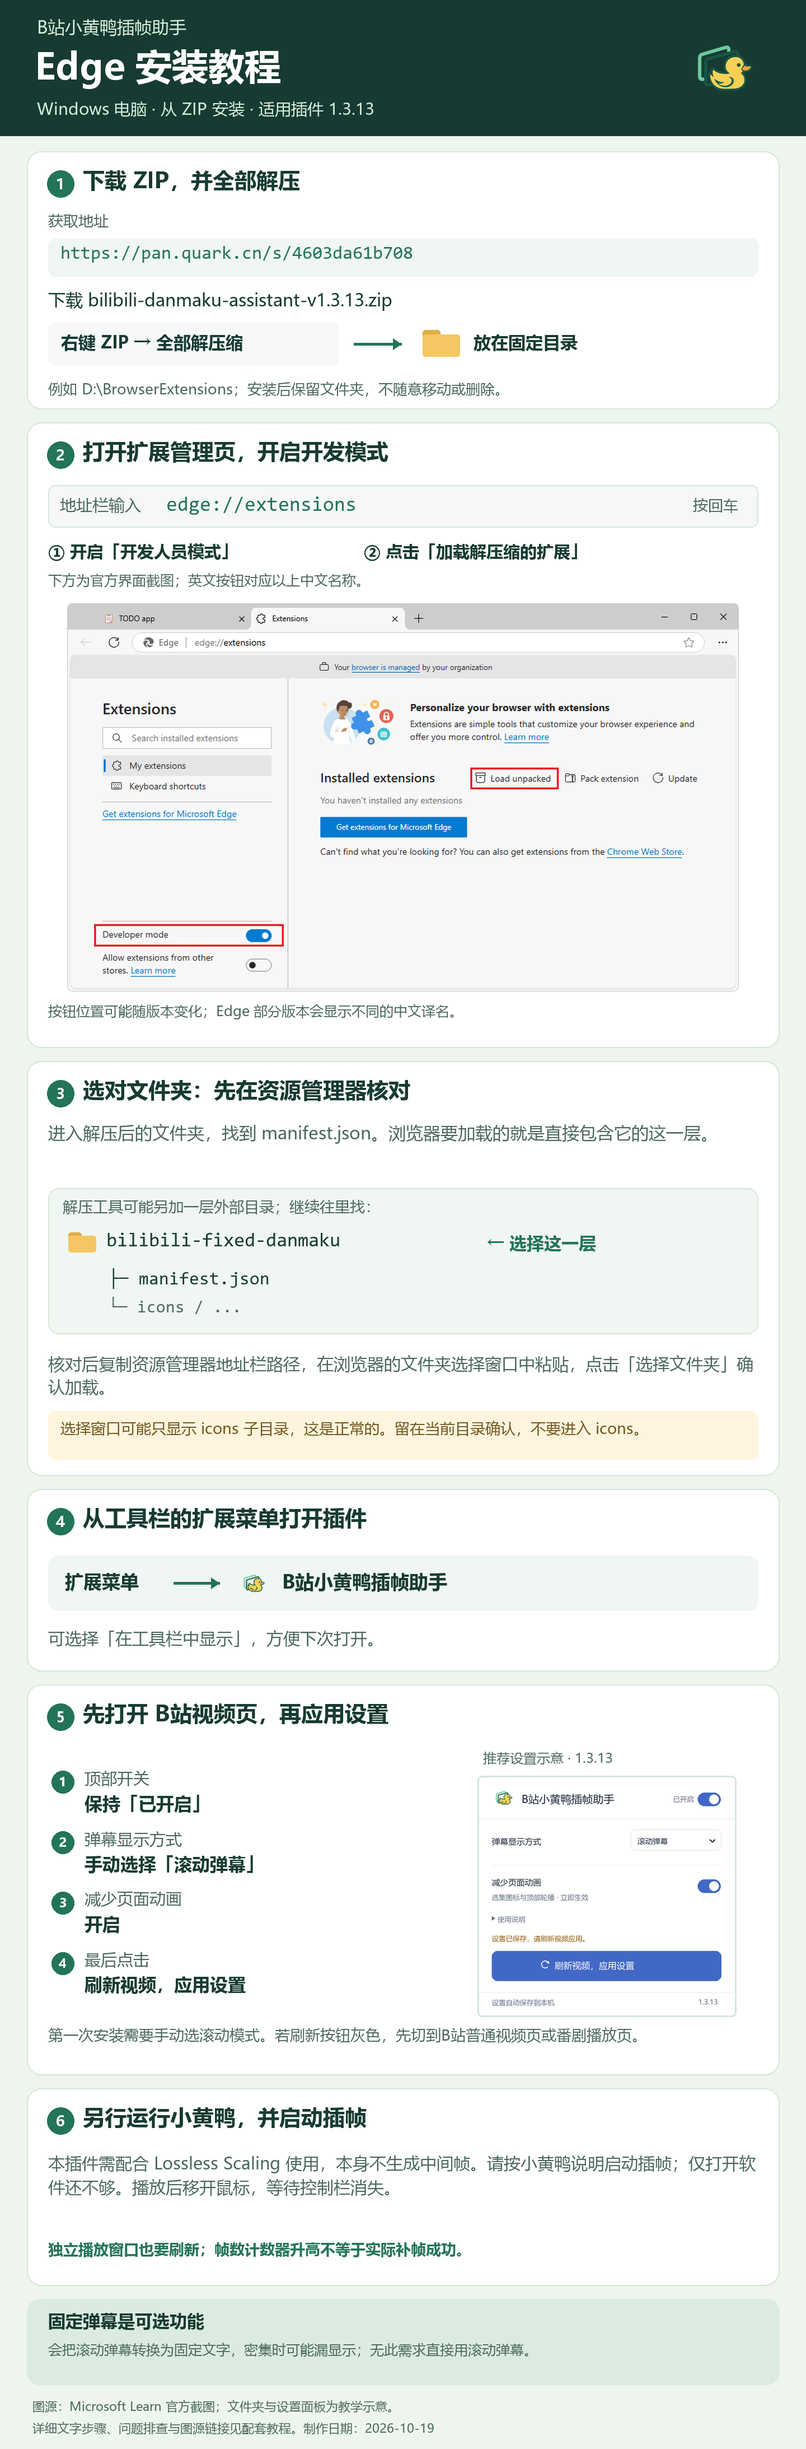
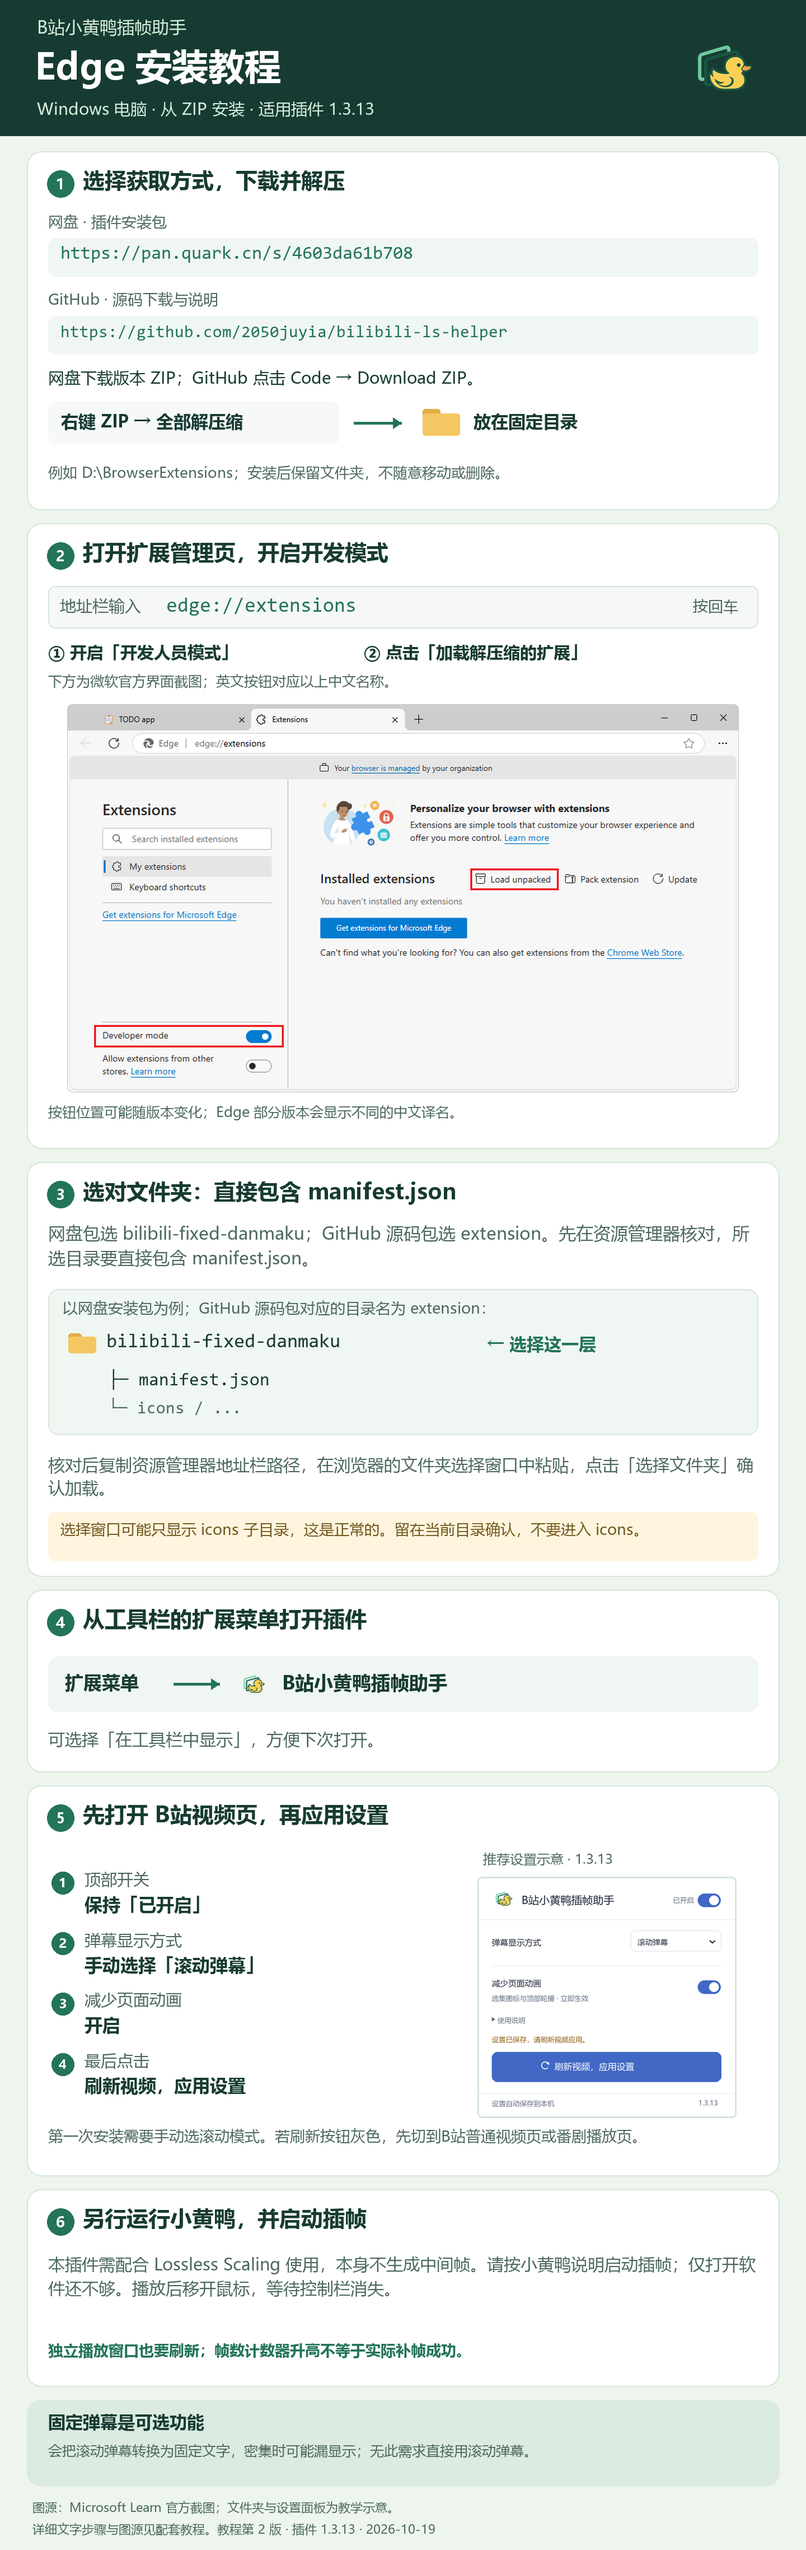
Update installation guides with user Chrome screenshot and GitHub download steps

diff --git a/docs/install.html b/docs/install.html
@@ -7,9 +7,10 @@ button[aria-selected=true]{background:#23745a;color:white;border-color:#23745a}.
 footer{max-width:1040px;margin:24px auto;padding:0 24px 48px;color:#4d695f}a{color:#23745a}button:focus-visible,a:focus-visible{outline:3px solid #d8ae43;outline-offset:4px}
 </style><header><h1>从安装包安装 · Edge / Chrome</h1><p>Windows 电脑适用。先选浏览器，再按图操作；两份长图均可保存。插件需配合 Lossless Scaling 使用。</p>
 <nav role="tablist" aria-label="选择浏览器"><button role="tab" aria-selected="true" data-browser="edge">Microsoft Edge</button><button role="tab" aria-selected="false" data-browser="chrome">Google Chrome</button></nav>
-<div class="downloads"><a class="action" id="png-download" href="assets/install-edge.png" download>保存 Edge 安装长图</a><a class="action" href="https://pan.quark.cn/s/4603da61b708" target="_blank" rel="noreferrer">获取插件安装包</a></div></header>
+<div class="downloads"><a class="action" id="png-download" href="assets/install-edge.png" download>保存 Edge 安装长图</a><a class="action" href="https://pan.quark.cn/s/4603da61b708" target="_blank" rel="noreferrer">网盘 · 插件安装包</a><a class="action" href="https://github.com/2050juyia/bilibili-ls-helper" target="_blank" rel="noreferrer">GitHub · 源码与说明</a></div></header>
+<p style="max-width:992px;margin:0 auto 18px;padding:0 24px">GitHub 下载：Code → Download ZIP；解压后加载 extension 文件夹。网盘安装包则加载 bilibili-fixed-danmaku。</p>
 <main><img id="guide" src="assets/install-edge.png" alt="Edge 从ZIP安装B站小黄鸭插帧助手：下载、解压、加载文件夹与推荐设置"></main>
-<footer><p>浏览器界面采用官方文档截图；文件夹和推荐设置面板为教学示意，并非本轮实机安装截图。按钮位置、译名可能随浏览器版本变化。</p>
+<footer><p>Edge界面采用微软官方截图；Chrome界面采用用户提供的1.3.13实际截图。文件夹和推荐设置面板为教学示意。按钮位置、译名可能随浏览器版本变化。</p>
 <p>完整文字教程：<a href="install-edge.zh-CN.md">Edge</a> · <a href="install-chrome.zh-CN.md">Chrome</a> · <a href="assets/SOURCES.md">图源与复现说明</a></p>
 <p>找不到 manifest？先在文件资源管理器核对目录；浏览器的文件夹选择窗口可能只显示 icons，这是正常的。加载后应保留解压目录。</p></footer>
 <script>for(const b of document.querySelectorAll('[data-browser]'))b.addEventListener('click',()=>{let n=b.dataset.browser,label=n==='edge'?'Edge':'Chrome';for(const x of document.querySelectorAll('[data-browser]'))x.setAttribute('aria-selected',String(x===b));let img=document.getElementById('guide');img.src='assets/install-'+n+'.png';img.alt=label+' 从ZIP安装教程';let a=document.getElementById('png-download');a.href=img.src;a.textContent='保存 '+label+' 安装长图';});</script></html>

diff --git a/scripts/render-install-guides.py b/scripts/render-install-guides.py
@@ -2,7 +2,7 @@
 
 Run: python scripts/render-install-guides.py
 Optional font overrides: --font, --bold-font, --mono-font (TTF/TTC paths).
-Official browser references are kept verbatim under docs/assets/reference/.
+Browser screenshots are kept verbatim under docs/assets/reference/.
 Folder and popup illustrations are labeled diagrams, not captured browser UI.
 """
 import argparse
@@ -26,6 +26,7 @@ LINE = "#d6e6da"
 QUARK = "https://pan.quark.cn/s/4603da61b708"
 REPO = "https://github.com/2050juyia/bilibili-ls-helper"
 VERSION = "1.3.13"
+EDITION = 2
 
 parser = argparse.ArgumentParser(description=__doc__)
 parser.add_argument("--font", default="C:/Windows/Fonts/msyh.ttc")
@@ -143,23 +144,24 @@ def render(browser):
     im.paste(icon, (W - 217, 53), icon)
     y = 270
 
-    cy = card(d, y, 460, 1, "下载 ZIP，并全部解压")
-    text(d, (86, cy), "获取地址", 27, SUB)
+    cy = card(d, y, 640, 1, "选择获取方式，下载并解压")
+    text(d, (86, cy), "网盘 · 插件安装包", 27, SUB)
     d.rounded_rectangle((86, cy + 43, W - 86, cy + 111), radius=13, fill=SOFT)
     text(d, (108, cy + 57), QUARK, 33, ACCENT, mono=True)
-    text(d, (86, cy + 139), "下载 bilibili-danmaku-assistant-v1.3.13.zip", 31)
-    d.rounded_rectangle((86, cy + 193, 605, cy + 270), radius=13, fill="#f7f8fa")
-    text(d, (109, cy + 215), "右键 ZIP → 全部解压缩", 31, bold=True)
-    arrow(d, 632, cy + 232, 717)
-    folder(d, 755, cy + 207)
-    text(d, (846, cy + 215), "放在固定目录", 31, bold=True)
-    text(d, (86, cy + 299), "例如 D:\\BrowserExtensions；安装后保留文件夹，不随意移动或删除。", 26, SUB)
-    y += 484
+    text(d, (86, cy + 139), "GitHub · 源码下载与说明", 27, SUB)
+    d.rounded_rectangle((86, cy + 182, W - 86, cy + 250), radius=13, fill=SOFT)
+    text(d, (108, cy + 199), REPO, 30, ACCENT, mono=True)
+    text(d, (86, cy + 278), "网盘下载版本 ZIP；GitHub 点击 Code → Download ZIP。", 29)
+    d.rounded_rectangle((86, cy + 334, 605, cy + 411), radius=13, fill="#f7f8fa")
+    text(d, (109, cy + 356), "右键 ZIP → 全部解压缩", 31, bold=True)
+    arrow(d, 632, cy + 373, 717)
+    folder(d, 755, cy + 348)
+    text(d, (846, cy + 356), "放在固定目录", 31, bold=True)
+    text(d, (86, cy + 448), "例如 D:\\BrowserExtensions；安装后保留文件夹，不随意移动或删除。", 26, SUB)
+    y += 664
 
-    ref = Image.open(ASSETS / "reference" / (browser + "-official.png")).convert("RGB")
-    if not is_edge:
-        # Crop out the official Hello Extensions example card, retaining real controls.
-        ref = ref.crop((0, 0, ref.width, 219))
+    reference_name = "edge-official.png" if is_edge else "chrome-user-1.3.13.png"
+    ref = Image.open(ASSETS / "reference" / reference_name).convert("RGB")
     refw = 1200
     refh = round(ref.height * refw / ref.width)
     h = 350 + refh + 73
@@ -170,16 +172,17 @@ def render(browser):
     text(d, (W - 202, cy + 23), "按回车", 27, SUB)
     text(d, (86, cy + 104), "① 开启「" + dev + "」", 30, bold=True)
     text(d, (650, cy + 104), "② 点击「" + load + "」", 30, bold=True)
-    text(d, (86, cy + 157), "下方为官方界面截图；英文按钮对应以上中文名称。", 25, SUB)
+    text(d, (86, cy + 157), "下方为微软官方界面截图；英文按钮对应以上中文名称。" if is_edge else
+         "下方为用户提供的 Chrome 实际截图，显示本插件 1.3.13 已加载。", 25, SUB)
     im.paste(ref.resize((refw, refh), Image.Resampling.LANCZOS), (120, cy + 211))
     text(d, (86, cy + 233 + refh), "按钮位置可能随版本变化；Edge 部分版本会显示不同的中文译名。" if is_edge else
          "开发者模式在右上角；开启后，再点击左侧出现的加载按钮。", 25, SUB)
     y += h + 24
 
-    cy = card(d, y, 740, 3, "选对文件夹：先在资源管理器核对")
-    paragraph(d, 86, cy, "进入解压后的文件夹，找到 manifest.json。浏览器要加载的就是直接包含它的这一层。", 1268, 31)
+    cy = card(d, y, 740, 3, "选对文件夹：直接包含 manifest.json")
+    paragraph(d, 86, cy, "网盘包选 bilibili-fixed-danmaku；GitHub 源码包选 extension。先在资源管理器核对，所选目录要直接包含 manifest.json。", 1268, 31)
     d.rounded_rectangle((86, cy + 115, W - 86, cy + 375), radius=19, fill=SOFT, outline=LINE, width=2)
-    text(d, (112, cy + 135), "解压工具可能另加一层外部目录；继续往里找：", 27, SUB)
+    text(d, (112, cy + 135), "以网盘安装包为例；GitHub 源码包对应的目录名为 extension：", 27, SUB)
     folder(d, 122, cy + 194, 49, 35)
     text(d, (190, cy + 194), "bilibili-fixed-danmaku", 35, FG, True, mono=True)
     text(d, (870, cy + 199), "← 选择这一层", 31, ACCENT, True)
@@ -226,8 +229,8 @@ def render(browser):
     text(d, (86, y + 25), "固定弹幕是可选功能", 31, bold=True)
     paragraph(d, 86, y + 78, "会把滚动弹幕转换为固定文字，密集时可能漏显示；无此需求直接用滚动弹幕。", 1268, 25)
     y += 180
-    text(d, (58, y), "图源：" + ("Microsoft Learn" if is_edge else "Chrome for Developers") + " 官方截图；文件夹与设置面板为教学示意。", 22, SUB)
-    text(d, (58, y + 39), "详细文字步骤、问题排查与图源链接见配套教程。制作日期：2026-10-19", 22, SUB)
+    text(d, (58, y), "图源：" + ("Microsoft Learn 官方截图" if is_edge else "用户提供的 Chrome 截图") + "；文件夹与设置面板为教学示意。", 22, SUB)
+    text(d, (58, y + 39), "详细文字步骤与图源见配套教程。教程第 " + str(EDITION) + " 版 · 插件 " + VERSION + " · 2026-10-19", 22, SUB)
     y += 88
     if y > im.height:
         raise RuntimeError("Canvas exceeded: " + str(y))
@@ -249,9 +252,10 @@ button[aria-selected=true]{background:#23745a;color:white;border-color:#23745a}.
 footer{max-width:1040px;margin:24px auto;padding:0 24px 48px;color:#4d695f}a{color:#23745a}button:focus-visible,a:focus-visible{outline:3px solid #d8ae43;outline-offset:4px}
 </style><header><h1>从安装包安装 · Edge / Chrome</h1><p>Windows 电脑适用。先选浏览器，再按图操作；两份长图均可保存。插件需配合 Lossless Scaling 使用。</p>
 <nav role="tablist" aria-label="选择浏览器"><button role="tab" aria-selected="true" data-browser="edge">Microsoft Edge</button><button role="tab" aria-selected="false" data-browser="chrome">Google Chrome</button></nav>
-<div class="downloads"><a class="action" id="png-download" href="assets/install-edge.png" download>保存 Edge 安装长图</a><a class="action" href="https://pan.quark.cn/s/4603da61b708" target="_blank" rel="noreferrer">获取插件安装包</a></div></header>
+<div class="downloads"><a class="action" id="png-download" href="assets/install-edge.png" download>保存 Edge 安装长图</a><a class="action" href="https://pan.quark.cn/s/4603da61b708" target="_blank" rel="noreferrer">网盘 · 插件安装包</a><a class="action" href="https://github.com/2050juyia/bilibili-ls-helper" target="_blank" rel="noreferrer">GitHub · 源码与说明</a></div></header>
+<p style="max-width:992px;margin:0 auto 18px;padding:0 24px">GitHub 下载：Code → Download ZIP；解压后加载 extension 文件夹。网盘安装包则加载 bilibili-fixed-danmaku。</p>
 <main><img id="guide" src="assets/install-edge.png" alt="Edge 从ZIP安装B站小黄鸭插帧助手：下载、解压、加载文件夹与推荐设置"></main>
-<footer><p>浏览器界面采用官方文档截图；文件夹和推荐设置面板为教学示意，并非本轮实机安装截图。按钮位置、译名可能随浏览器版本变化。</p>
+<footer><p>Edge界面采用微软官方截图；Chrome界面采用用户提供的1.3.13实际截图。文件夹和推荐设置面板为教学示意。按钮位置、译名可能随浏览器版本变化。</p>
 <p>完整文字教程：<a href="install-edge.zh-CN.md">Edge</a> · <a href="install-chrome.zh-CN.md">Chrome</a> · <a href="assets/SOURCES.md">图源与复现说明</a></p>
 <p>找不到 manifest？先在文件资源管理器核对目录；浏览器的文件夹选择窗口可能只显示 icons，这是正常的。加载后应保留解压目录。</p></footer>
 <script>for(const b of document.querySelectorAll('[data-browser]'))b.addEventListener('click',()=>{let n=b.dataset.browser,label=n==='edge'?'Edge':'Chrome';for(const x of document.querySelectorAll('[data-browser]'))x.setAttribute('aria-selected',String(x===b));let img=document.getElementById('guide');img.src='assets/install-'+n+'.png';img.alt=label+' 从ZIP安装教程';let a=document.getElementById('png-download');a.href=img.src;a.textContent='保存 '+label+' 安装长图';});</script></html>"""
@@ -261,8 +265,9 @@ footer{max-width:1040px;margin:24px auto;padding:0 24px 48px;color:#4d695f}a{col
 ASSETS.mkdir(parents=True, exist_ok=True)
 rows = [render("edge"), render("chrome")]
 preview()
-manifest = {"version": VERSION, "date": "2026-10-19", "outputs": rows,
+manifest = {"version": VERSION, "edition": EDITION, "date": "2026-10-19", "outputs": rows,
             "references": [{"path": p.relative_to(ROOT).as_posix(), "bytes": p.stat().st_size,
+                            "used_in_current_edition": p.name in ("edge-official.png", "chrome-user-1.3.13.png"),
                             "sha256": hashlib.sha256(p.read_bytes()).hexdigest()}
                            for p in sorted((ASSETS / "reference").glob("*.png"))]}
 (ROOT / "docs" / "install-guide-manifest.json").write_text(
@@ -270,8 +275,8 @@ manifest = {"version": VERSION, "date": "2026-10-19", "outputs": rows,
 if args.export_dir:
     args.export_dir.mkdir(parents=True, exist_ok=True)
     for browser, label in [("edge", "Edge"), ("chrome", "Chrome")]:
-        shutil.copy2(ASSETS / ("install-" + browser + ".png"), args.export_dir / (label + "_安装教程_v1.png"))
-    archive = args.export_dir / "安装教程_Edge与Chrome_v1.zip"
+        shutil.copy2(ASSETS / ("install-" + browser + ".png"), args.export_dir / (label + "_安装教程_v" + str(EDITION) + ".png"))
+    archive = args.export_dir / ("安装教程_Edge与Chrome_v" + str(EDITION) + ".zip")
     with zipfile.ZipFile(archive, "w", zipfile.ZIP_DEFLATED, compresslevel=9) as bundle:
         for p in sorted((ROOT / "docs").rglob("*")):
             if p.is_file():

diff --git a/docs/install-chrome.zh-CN.md b/docs/install-chrome.zh-CN.md
@@ -4,11 +4,14 @@
 
 ![Chrome从ZIP安装与设置图解](assets/install-chrome.png)
 
-浏览器部分使用官方文档的真实界面截图；文件夹和推荐设置面板为教学示意，并非本轮在用户电脑重新安装的截图。浏览器版本不同，按钮文字和位置可能略有变化。[图源与复现说明](assets/SOURCES.md)
+Chrome浏览器部分使用用户提供的真实截图，截图中的插件版本为1.3.13；文件夹和推荐设置面板为教学示意，并非本轮重新安装的完整过程截图。浏览器版本不同，按钮文字和位置可能略有变化。[图源与复现说明](assets/SOURCES.md)
 
 ## 1. 下载并解压
 
-打开[夸克网盘下载页](https://pan.quark.cn/s/4603da61b708)，下载 `bilibili-danmaku-assistant-v1.3.13.zip`，不要直接在压缩包内操作。
+两种获取方式任选其一：
+
+- **夸克安装包：**打开[夸克网盘下载页](https://pan.quark.cn/s/4603da61b708)，下载 `bilibili-danmaku-assistant-v1.3.13.zip`。
+- **GitHub源码包：**打开[2050juyia/bilibili-ls-helper](https://github.com/2050juyia/bilibili-ls-helper)，点击 **Code → Download ZIP**。解压后需加载里面的 `extension` 文件夹；不要选择整个源码目录。GitHub目前没有已发布的Release安装包。
 
 在Windows文件资源管理器中右键点击ZIP，选择「全部解压缩／全部解压」。解压到以后不会随手清理的固定目录，例如 `D:\BrowserExtensions`。安装后仍要保留解压出的文件夹；不能只留下ZIP，也不要随意移动文件夹。
 
@@ -17,13 +20,13 @@
 1. 把 `chrome://extensions` 复制到Chrome地址栏，按回车。
 2. 开启右上角的「开发者模式」。
 3. 点击页面出现的「加载已解压的扩展程序」。
-4. 找到解压后的 `bilibili-fixed-danmaku` 文件夹，确认里面直接有 `manifest.json`，再选中**这个文件夹**。
+4. 根据下载来源选择目录：**夸克安装包选 `bilibili-fixed-danmaku`；GitHub源码包选解压目录里的 `extension`**。确认选中的文件夹直接包含 `manifest.json`。
 
 ```text
-bilibili-fixed-danmaku/  ← 选择这一层
-├─ manifest.json
-├─ popup.html
-└─ icons/
+夸克包：bilibili-fixed-danmaku/       ← 选择这一层
+GitHub源码包：源码解压目录/extension/  ← 选择这一层
+
+所选目录内应直接包含：manifest.json、popup.html、icons/ 等
 ```
 
 不是选择ZIP，也不是选择外层下载目录。若解压工具又套了一层同名文件夹，请继续往里找，直到能直接看到 `manifest.json`。
@@ -49,7 +52,7 @@ Chrome出现「B站小黄鸭插帧助手」卡片后，先打开一个B站视频
 
 ## 常见问题
 
-**提示清单文件缺失或无法加载？** 多数是选错目录。返回解压目录，选择直接包含 `manifest.json` 的那一层。若下载的是GitHub的 `Source code (zip)`，应加载源码里的 `extension` 文件夹。
+**提示清单文件缺失或无法加载？** 多数是选错目录。夸克包选 `bilibili-fixed-danmaku`，GitHub的 **Code → Download ZIP** 源码包选其中的 `extension`；两者都要选直接包含 `manifest.json` 的那一层。
 
 **装好却找不到图标？** 点击Chrome工具栏的「扩展程序」菜单，找到「B站小黄鸭插帧助手」并点图钉；没固定图标不代表没安装。
 

diff --git a/docs/assets/SOURCES.md b/docs/assets/SOURCES.md
@@ -3,16 +3,17 @@
 ## 图片与示意图
 
 - `reference/edge-official.png`：微软官方 Edge 本地安装文档中的真实界面截图。来源页面：<https://learn.microsoft.com/en-us/microsoft-edge/extensions/getting-started/extension-sideloading>；原图：<https://learn.microsoft.com/en-us/microsoft-edge/extensions/getting-started/extension-sideloading-images/developermode-toggle.png>。
-- `reference/chrome-official.png`：Google 官方 Hello World 教程中的真实扩展管理页截图。来源页面：<https://developer.chrome.com/docs/extensions/get-started/tutorial/hello-world>；原图：<https://developer.chrome.com/static/docs/extensions/get-started/tutorial/hello-world/image/extensions-page-e0d64d89a6acf.png>。教学长图只截取上方开发者模式和加载按钮，未保留示例扩展卡片。
-- 官方截图保留原始字节；长图中仅缩放展示或截取控件区域，中文步骤标注位于截图外部。官方示例为英文，教程给出对应中文按钮名。
+- `reference/chrome-user-1.3.13.png`：用户于本轮提供的 Chrome 扩展管理页真实截图，1285×710，显示本插件1.3.13已加载；原图中的红框突出开发者模式和“Load unpacked”按钮。第2版Chrome教程使用此图。
+- `reference/chrome-official.png`：第1版使用的 Google 官方 Hello World 教程截图，仅保留作为历史参考，第2版不再使用。来源页面：<https://developer.chrome.com/docs/extensions/get-started/tutorial/hello-world>；原图：<https://developer.chrome.com/static/docs/extensions/get-started/tutorial/hello-world/image/extensions-page-e0d64d89a6acf.png>。
+- 两张当前使用的浏览器截图均保留原始字节；第2版长图完整缩放展示，中文步骤标注位于截图外部。截图界面为英文，教程给出对应中文按钮名。
 - 文件夹结构、菜单路径与设置面板为本项目制作的教学示意。推荐设置面板的标签和布局按1.3.13的 `popup.html`、`popup.css` 核对；展示推荐设置，不是声称捕获到了实际安装成功后的状态。
 - 项目鸭子图标来自 `extension/icons/icon128.png`。
 
-第三方官方截图的权利属于对应权利人，不因本仓库MIT源码许可而重新许可。项目自己的文字、标注和绘图脚本采用本仓库许可。
+浏览器截图中第三方界面、名称及商标的权利属于对应权利人，不因本仓库MIT源码许可而重新许可。项目自己的文字、标注和绘图脚本采用本仓库许可。
 
 ## 适用范围
 
-教程针对Windows桌面版Edge、Chrome及1.3.13安装包。后续浏览器的按钮位置、译名、Windows解压菜单可能不同，应按名称核对。图解不是本轮在用户电脑重新安装插件的实拍记录。
+教程针对Windows桌面版Edge、Chrome及1.3.13安装包。后续浏览器的按钮位置、译名、Windows解压菜单可能不同，应按名称核对。Chrome管理页是用户提供的实际截图；Edge管理页来自官方文档，文件夹与推荐设置为教学示意，整份教程不代表一次连续安装实录。
 
 ## 复现
 

diff --git a/THIRD_PARTY_NOTICES.md b/THIRD_PARTY_NOTICES.md
@@ -2,7 +2,7 @@
 
 本次 MIT 声明针对作者有权许可的原创源代码及相关原创说明，不将第三方作品、名称或商标自动纳入授权。
 
-安装图文中的浏览器官方截图分别来自 Microsoft Learn 和 Chrome for Developers，权利属于对应权利人，不纳入本项目MIT授权；原图链接、使用方式和教学示意区别见 `docs/assets/SOURCES.md`。
+安装图文中的Edge管理页截图来自Microsoft Learn，第2版Chrome管理页截图由用户提供；第1版Chrome官方截图保留作历史参考。截图中第三方界面、名称与商标的权利属于对应权利人，不纳入本项目MIT授权；来源、使用方式和教学示意区别见 `docs/assets/SOURCES.md`。
 
 - bilibili/B站和 Lossless Scaling/小黄鸭仅用于说明适配平台和配套软件，相关名称及商标属于各自权利人。本项目与其官方无隶属关系。
 - 本插件不附带 Lossless Scaling 软件；用户需自行取得并运行。
